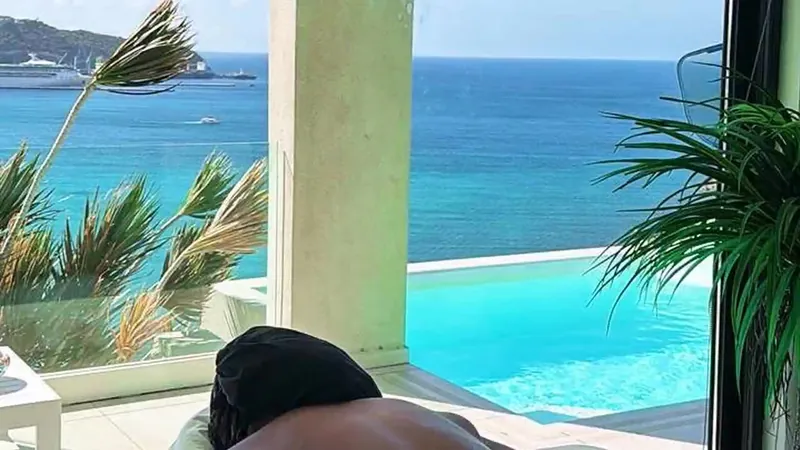
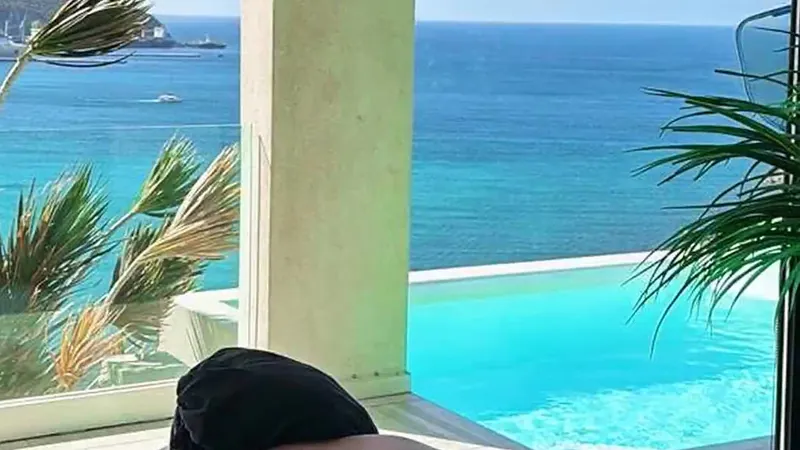
Video cover: crop out most of the sky
Claude-Session: https://claude.ai/code/session_015nfR9qRovyrhkszo2qDY6a

diff --git a/index.html b/index.html
@@ -354,7 +354,7 @@
     <p class="intro measure">Take a quick look, then book yours on WhatsApp.</p>
     <div class="fb-video" data-embed="https://www.facebook.com/plugins/video.php?href=https%3A%2F%2Fwww.facebook.com%2Fstmaartenmassage%2Fvideos%2F2107593692921947%2F&show_text=false&width=1280&amp;autoplay=true">
       <button type="button" class="fb-play" aria-label="Play the video: Relaxation delivered">
-        <img src="images/relaxation-delivered-video-cover-villa-pool-800.webp" srcset="images/relaxation-delivered-video-cover-villa-pool-800.webp 800w, images/relaxation-delivered-video-cover-villa-pool.webp 1280w" sizes="(min-width:960px) 900px, 100vw" alt="Massage on a villa terrace overlooking an infinity pool and the sea in St. Maarten" width="1280" height="720" loading="lazy" decoding="async">
+        <img src="images/relaxation-delivered-video-cover-villa-pool-800.webp?v=2" srcset="images/relaxation-delivered-video-cover-villa-pool-800.webp?v=2 800w, images/relaxation-delivered-video-cover-villa-pool.webp?v=2 1280w" sizes="(min-width:960px) 900px, 100vw" alt="Massage on a villa terrace overlooking an infinity pool and the sea in St. Maarten" width="1280" height="720" loading="lazy" decoding="async">
         <span class="fb-play-icon" aria-hidden="true"></span>
       </button>
     </div>
